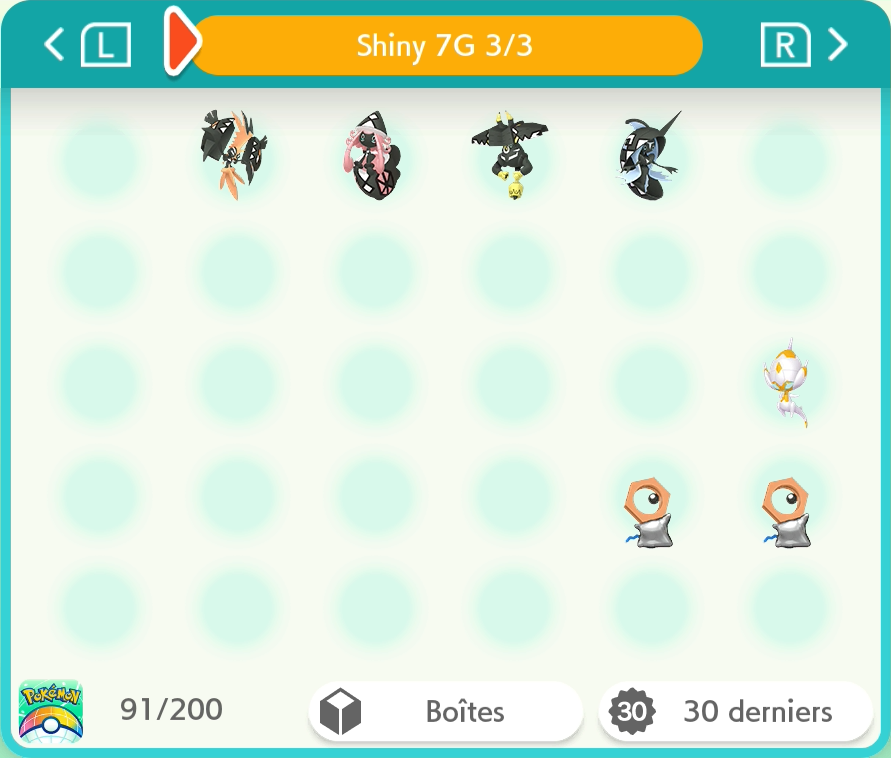
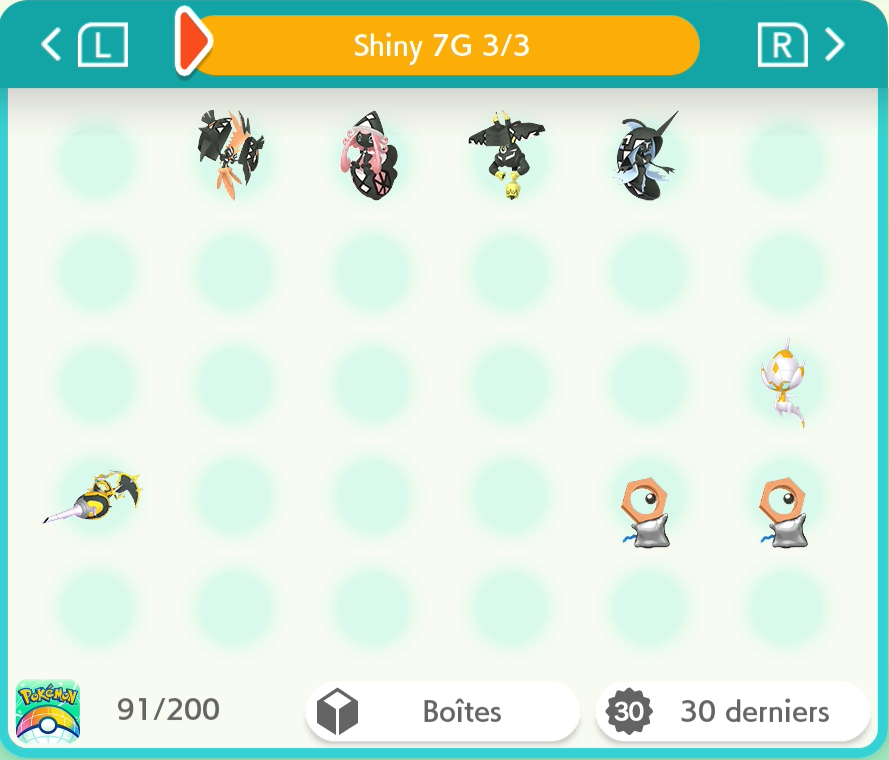
7G : Mandrillon

diff --git a/README.md b/README.md
@@ -2,8 +2,8 @@
 
 Pokémon-Elément-Sh -> <a href="https://www.pokemon-element-sh.fr/profil/karyno21" target="_blank">Karyno21</a>
 
-↓ Dernière Update le 27/08/2026 à 4h17 ↓
-### Dex National [263/999] +2
+↓ Dernière Update le 28/08/2026 à 19h03 ↓
+### Dex National [264/999] +3
 
 | Gen | Prog | Notes |
 |:--:|:--:|---|
@@ -13,7 +13,7 @@ Pokémon-Elément-Sh -> <a href="https://www.pokemon-element-sh.fr/profil/karyno
 |4G|20/107||
 |5G|28/154||
 |6G|22/70||
-|7G|17/84|+1 Type:0|
+|7G|18/84|+2 Type:0 & Mandrillon|
 |8G|32/90||
 |9G|45/108||
 
